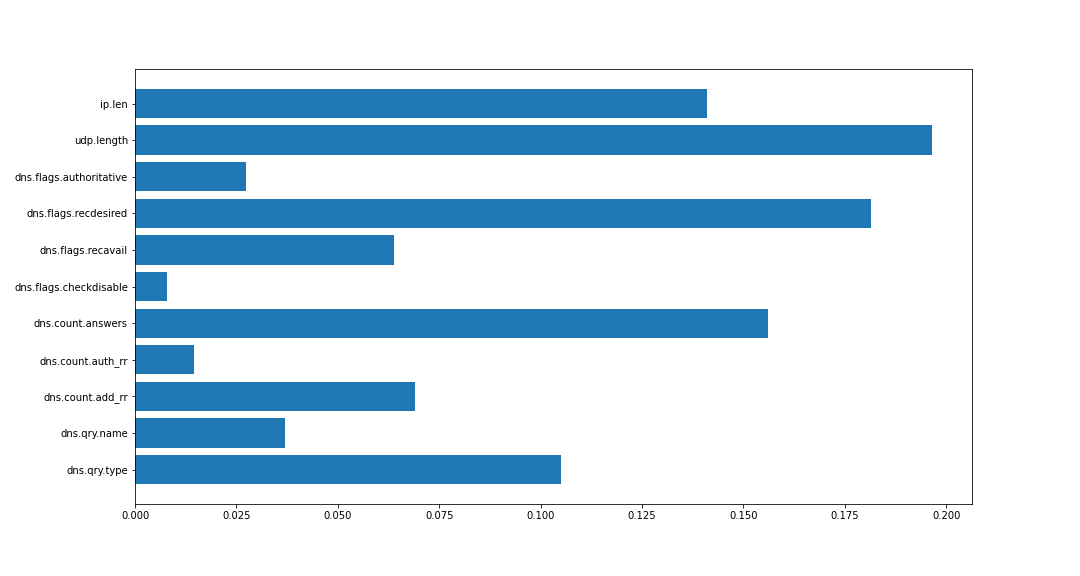
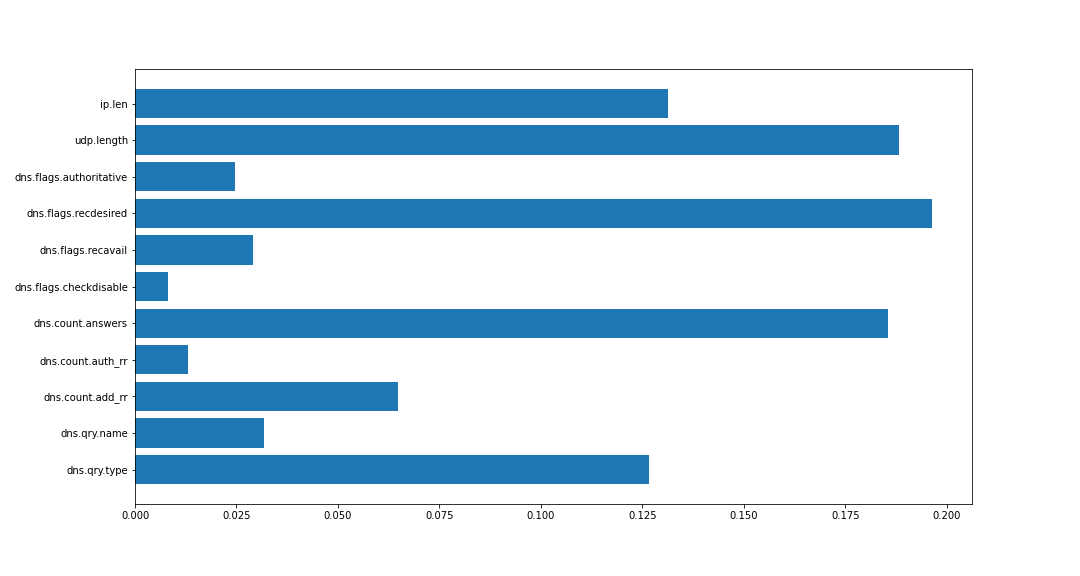
correct preprocessing

diff --git a/preprocessing/datasets_preprocessing.py b/preprocessing/datasets_preprocessing.py
@@ -72,16 +72,6 @@ dfg.dropna(axis=0, inplace=True)
 dff.dropna(axis=0, inplace=True)
 print("Samples with nan values dropped")
 
-# crop Booters datasets (after shuffling) to deal with memory issues
-df1 = df1.sample(frac=1).reset_index(drop=True).iloc[:len(df1)//2,:]
-df2 = df2.sample(frac=1).reset_index(drop=True).iloc[:len(df2)//2,:]
-df3 = df3.sample(frac=1).reset_index(drop=True).iloc[:len(df3)//2,:]
-df4 = df4.sample(frac=1).reset_index(drop=True).iloc[:len(df4)//2,:]
-df5 = df5.sample(frac=1).reset_index(drop=True).iloc[:len(df5)//2,:]
-df6 = df6.sample(frac=1).reset_index(drop=True).iloc[:len(df6)//2,:]
-df7 = df7.sample(frac=1).reset_index(drop=True).iloc[:len(df7)//2,:]
-print("Datasets cropped")
-
 # transform categorical features to numerical
 df1['dns.qry.name'] = df1['dns.qry.name'].apply(lambda a: int(hashlib.sha256(a.encode('utf-8')).hexdigest(), 16) % 10**8)
 df2['dns.qry.name'] = df2['dns.qry.name'].apply(lambda a: int(hashlib.sha256(a.encode('utf-8')).hexdigest(), 16) % 10**8)
@@ -141,19 +131,23 @@ print("Feature importance:")
 for i,v in enumerate(importance):
 	print('\tFeature: %0d, Score: %.5f' % (i,v))
 
-plt.bar([x for x in range(len(importance))], importance)
+names = ['ip.len', 'udp.length', 'dns.flags.authoritative', 'dns.flags.recdesired', 'dns.flags.recavail', 'dns.flags.checkdisable',
+         'dns.count.answers', 'dns.count.auth_rr', 'dns.count.add_rr', 'dns.qry.name', 'dns.qry.type']
+fig, ax = plt.subplots(figsize=(15,8))
+ax.barh(names, importance)
+ax.invert_yaxis()
 plt.savefig("feature_importance.png")
 
 # drop some more features based on the results of random forest
-df1.drop(columns=['dns.flags.authoritative', 'dns.flags.checkdisable'], inplace=True)
-df2.drop(columns=['dns.flags.authoritative', 'dns.flags.checkdisable'], inplace=True)
-df3.drop(columns=['dns.flags.authoritative', 'dns.flags.checkdisable'], inplace=True)
-df4.drop(columns=['dns.flags.authoritative', 'dns.flags.checkdisable'], inplace=True)
-df5.drop(columns=['dns.flags.authoritative', 'dns.flags.checkdisable'], inplace=True)
-df6.drop(columns=['dns.flags.authoritative', 'dns.flags.checkdisable'], inplace=True)
-df7.drop(columns=['dns.flags.authoritative', 'dns.flags.checkdisable'], inplace=True)
-dfg.drop(columns=['dns.flags.authoritative', 'dns.flags.checkdisable'], inplace=True)
-dff.drop(columns=['dns.flags.authoritative', 'dns.flags.checkdisable'], inplace=True)
+df1.drop(columns=['dns.flags.checkdisable', 'dns.count.auth_rr'], inplace=True)
+df2.drop(columns=['dns.flags.checkdisable', 'dns.count.auth_rr'], inplace=True)
+df3.drop(columns=['dns.flags.checkdisable', 'dns.count.auth_rr'], inplace=True)
+df4.drop(columns=['dns.flags.checkdisable', 'dns.count.auth_rr'], inplace=True)
+df5.drop(columns=['dns.flags.checkdisable', 'dns.count.auth_rr'], inplace=True)
+df6.drop(columns=['dns.flags.checkdisable', 'dns.count.auth_rr'], inplace=True)
+df7.drop(columns=['dns.flags.checkdisable', 'dns.count.auth_rr'], inplace=True)
+dfg.drop(columns=['dns.flags.checkdisable', 'dns.count.auth_rr'], inplace=True)
+dff.drop(columns=['dns.flags.checkdisable', 'dns.count.auth_rr'], inplace=True)
 
 print("New datasets shapes:")
 print("\tdf1: " + str(df1.shape))
